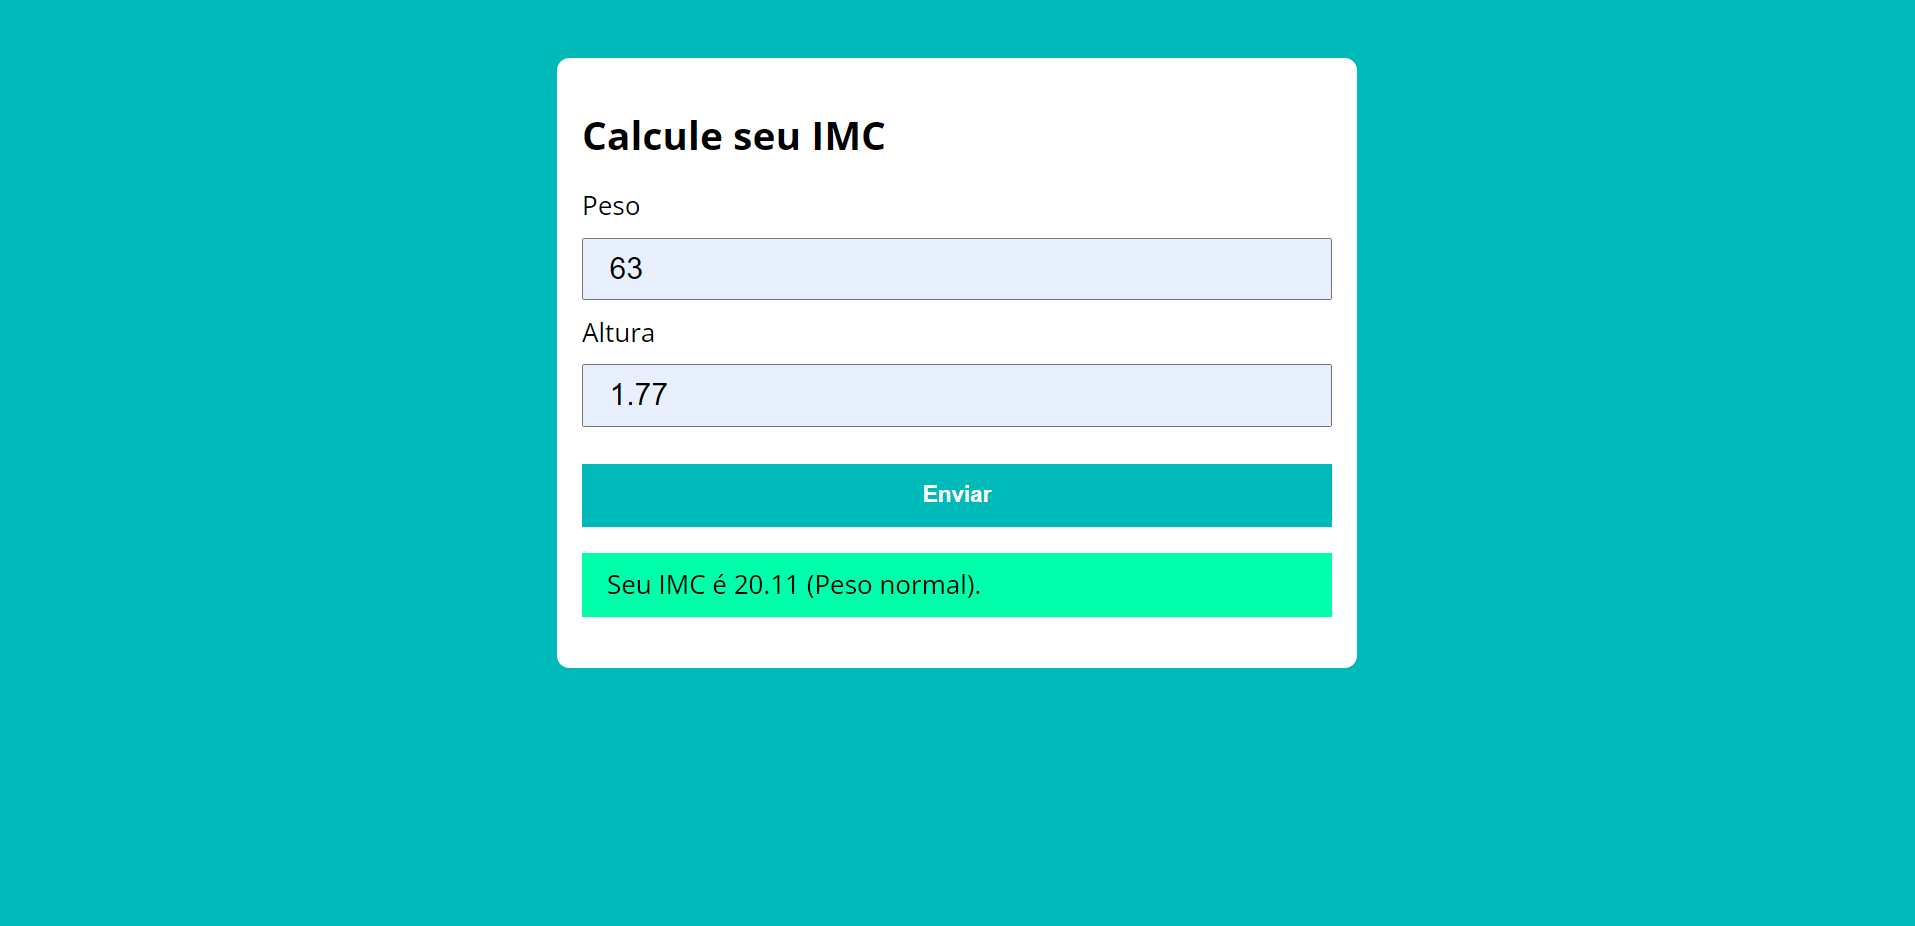
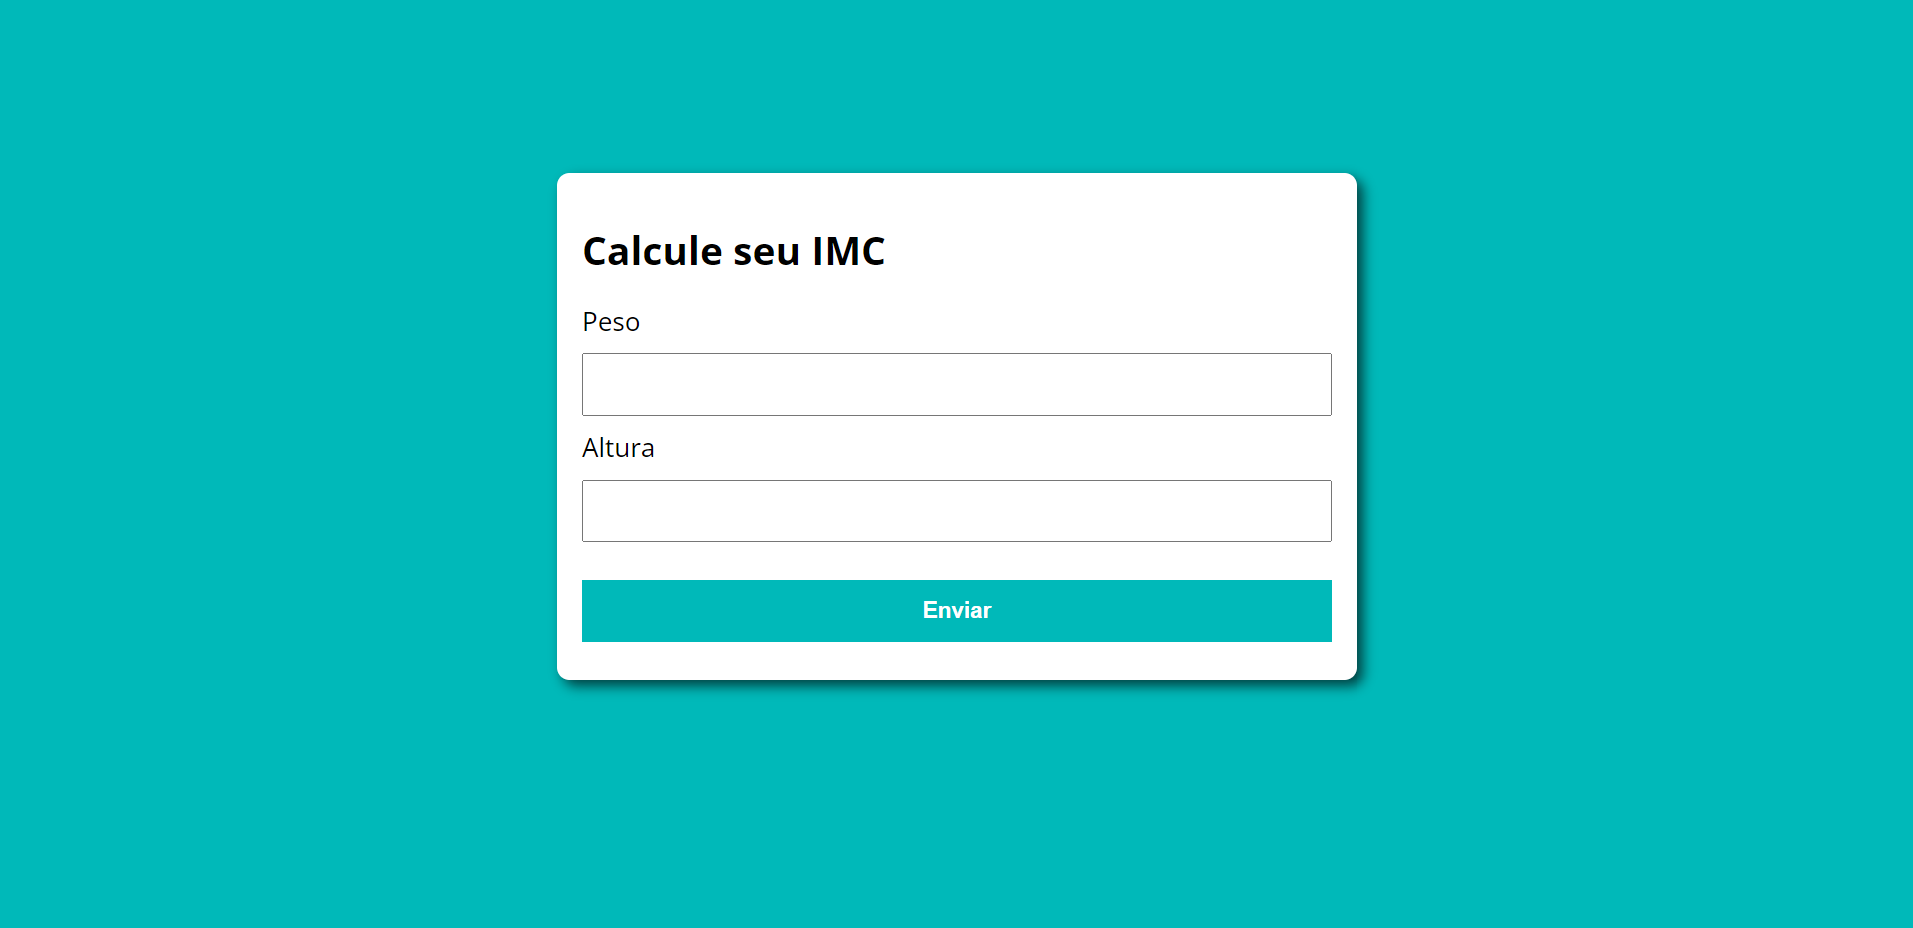
adição da sombra no container

Changed region(s): [[0.2776, 0.2117, 0.7402, 0.7559], [0.2776, 0.0605, 0.7094, 0.3024]]

diff --git a/assets/css/style.css b/assets/css/style.css
@@ -24,10 +24,11 @@ body {
 .container {
     max-width: 640px;
      /*vai se ajustando ao centro -> as laterais*/
-    margin: 50px auto;
+    margin: 140px auto;
     background: white;
     padding: 20px;
     border-radius: 10px;
+    box-shadow: 5px 5px 10px rgb(1, 64, 64);
 }
 
 form input, form label, form button {
